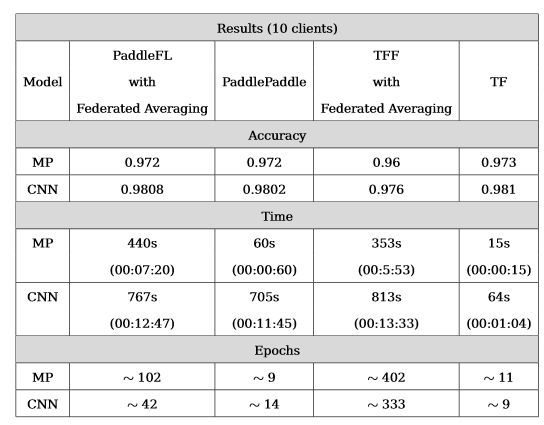
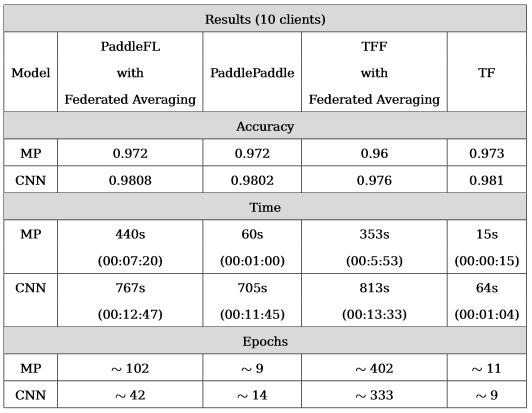
fix error

Changed region(s): [[0.0, 0.0, 0.9925, 1.0], [0.9023, 0.1453, 0.9323, 0.2034]]

diff --git a/README.md b/README.md
@@ -135,11 +135,12 @@ As a reminder, an epoch corresponds to the reading of all the learning examples.
 **Notes:**
 
 * With Federated Averaging, the accuracies is not impacted.
-* The run time is more important when we use the federated learning. Due to the communication time between the server and the workers or the number of loops more important.
+* The runtime is more important when we use the federated learning. Due to the communication time between the server and the workers or the higher number of loops.
 * It's important to choose a good compromise between the number of cycles and the number of model parameters, like number of rounds and number of local epochs
 * Tensorflow Federated take more time than PaddleFL with big model, because it doesn't parallelize the local training.
-* Mainly, PaddleFL offer a learning with fewer epochs and rounds
-* The time of communication have an impact on the time of convergence. The Multi-layer perceptron take more time for fewer rounds with PaddleFL (use communication) than TFF (no communication)
+* PaddleFL offer a learning with fewer epochs and rounds
+* The time of communication has an impact on the time of convergence. The Multi-layer perceptron takes more time for fewer rounds with PaddleFL (use communication) than TFF (no communication)
+
 
 ### Conclusion
 

diff --git a/TensorFlow_Federated/README.md b/TensorFlow_Federated/README.md
@@ -116,8 +116,8 @@ As a reminder, an epoch corresponds to the reading of all the learning examples.
 **Notes:**
 
 * With Federated Averaging, the accuracies is not impacted. We lost approximately 0.1 accuracy.
-* The federated learning take more iterations.
-* The run time is more important when we use the federated learning. Due to number of iteration more important and the locals training, with TFF, are not executing in parallel.
+* The federated learning takes more iterations.
+* The runtime is more important when we use the federated learning. Due to the higher number of iteration and the locals training, with TFF, are not executing in parallel.
 * Increase of times and iteration where the number of parameters is important (i.e. CNN: time is x13 more important).
 
 We can say this framework remains a good tool to simulate some federated learning strategies because with the different examples, issues and error report finding on the internet, it's easy to use it. The principal problem of this framework that it doesn't offer deployment mode. But frequently new updates are published, we can hope to view quickly a deployment version.

diff --git a/PaddleFL/README.md b/PaddleFL/README.md
@@ -123,7 +123,7 @@ As a reminder, an epoch corresponds to the reading of all the learning examples.
 **Notes:**
 
 * With Federated Averaging, the accuracies is not impacted.
-* The run time is more important when we use the federated learning. Due to the communication time between the server and the workers or the number of loops more important.
+* The runtime is more important when we use the federated learning. Due to the communication time between the server and the workers or the higher number of iteration.
 * Small model take more loops to converge, so more communication between the server and the workers that increase the run time
 * Due to the parallelization of the local training and the small increase in the number of loops, the CNN does not take much extra time during the federated training compared to the centralised training. The extra time is the communication time
 
